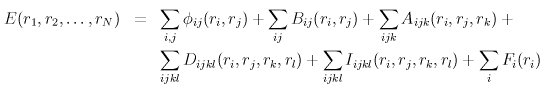
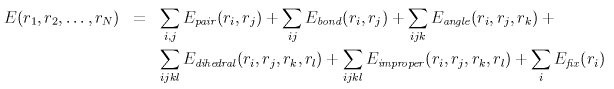
git-svn-id: svn://svn.icms.temple.edu/lammps-ro/trunk@1914 f3b2605a-c512-4ea7-a41b-209d697bcdaa

diff --git a/Eqs/min_energy.tex b/Eqs/min_energy.tex
@@ -3,12 +3,12 @@
 \begin{document}
 
 \begin{eqnarray*}
-E(r_1,r_2, \ldots ,r_N) & = & \sum_{i,j} \phi_{ij}(r_i,r_j) + 
-                              \sum_{ij} B_{ij}(r_i,r_j) +
-                              \sum_{ijk} A_{ijk}(r_i,r_j,r_k) + \\
-                           && \sum_{ijkl} D_{ijkl}(r_i,r_j,r_k,r_l) +
-                              \sum_{ijkl} I_{ijkl}(r_i,r_j,r_k,r_l) +
-                              \sum_i F_i(r_i) 
+E(r_1,r_2, \ldots ,r_N) & = & \sum_{i,j} E_{\it pair}(r_i,r_j) + 
+                              \sum_{ij} E_{\it bond}(r_i,r_j) +
+                              \sum_{ijk} E_{\it angle}(r_i,r_j,r_k) + \\
+                           && \sum_{ijkl} E_{\it dihedral}(r_i,r_j,r_k,r_l) +
+                              \sum_{ijkl} E_{\it improper}(r_i,r_j,r_k,r_l) +
+                              \sum_i E_{\it fix}(r_i) 
 \end{eqnarray*}
 
 \end{document}
